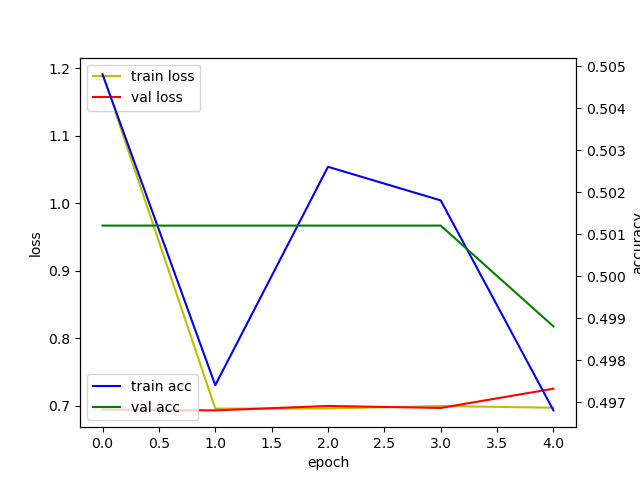
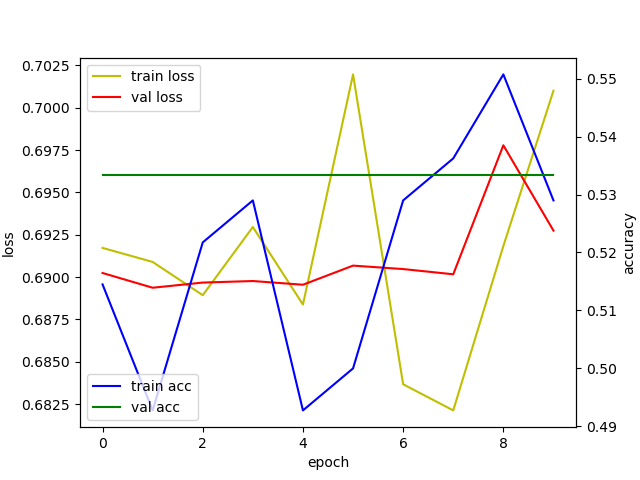
Edited parameters and turned on shuffle

diff --git a/functions_used.py b/functions_used.py
@@ -52,8 +52,8 @@ def summarize_diagnostics(history):
     loss_ax.plot(history.history['loss'], 'y', label='train loss')
     loss_ax.plot(history.history['val_loss'], 'r', label='val loss')
 
-    acc_ax.plot(history.history['accuracy'], 'b', label='train acc')
-    acc_ax.plot(history.history['val_accuracy'], 'g', label='val acc')
+    acc_ax.plot(history.history['acc'], 'b', label='train acc')
+    acc_ax.plot(history.history['val_acc'], 'g', label='val acc')
 
     loss_ax.set_xlabel('epoch')
     loss_ax.set_ylabel('loss')
@@ -263,7 +263,7 @@ def random_crop_reflect(images, crop_l):
 def train_and_evaluate_model(model, train_images, train_labels,
                              test_images, test_labels, batch_size, training_epoch):
     history = model.fit(train_images, train_labels, batch_size=batch_size, epochs=training_epoch,
-                            validation_data=(test_images, test_labels))
+                            validation_data=(test_images, test_labels), shuffle=True)
     evaluation = model.evaluate(test_images, test_labels)
     print('loss: ', evaluation[0])
     print('accuracy', evaluation[1])

diff --git a/asirra_cnn.py b/asirra_cnn.py
@@ -12,7 +12,7 @@ if __name__ == '__main__':
 
     # Parameter Setting
     learning_rate = 0.01
-    training_epoch = 20
+    training_epoch = 10
     batch_size = 128
     display_step = 20
 
